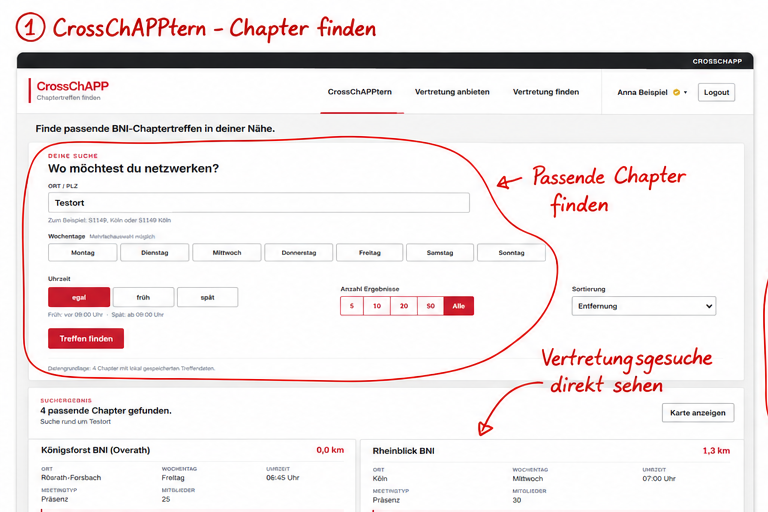
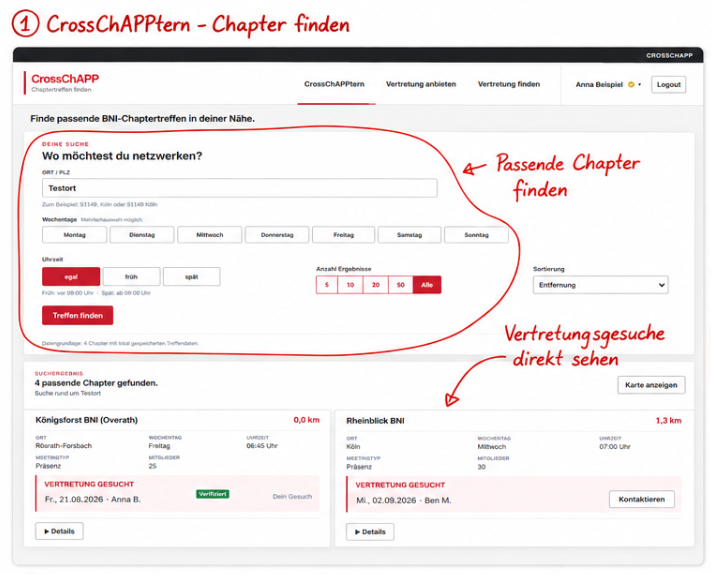
Vertretungsansichten und Chapterfilter verfeinern

diff --git a/app/assets/site.js b/app/assets/site.js
@@ -28,7 +28,6 @@
     document.querySelector('.result-limit-options')?.addEventListener('click', selectResultLimit);
     initializeRequestContact();
 
-    if (document.querySelector('#data-basis')) loadDataBasis();
     if (document.querySelector('#home-chapter-results')) loadHomeChapters();
     const invitationForm = document.querySelector('#invitation-activation-form');
     if (invitationForm) setupInvitationActivation(invitationForm);
@@ -319,18 +318,6 @@
         form.addEventListener('submit',async event=>{event.preventDefault();const validPassword=validatePassword(),validConfirmation=validateConfirmation();if(!validPassword||!validConfirmation){(validPassword?confirmation:password).focus();return;}const message=document.querySelector('#invitation-activation-message');try{const response=await fetch('/api/auth/invitation.php',{method:'POST',headers:{'Content-Type':'application/json','X-CSRF-Token':csrfToken},body:JSON.stringify({token:form.dataset.token,password:password.value,password_confirmation:confirmation.value})});const payload=await response.json();if(!response.ok)throw new Error(payload.error);form.remove();message.className='message success';message.replaceChildren(document.createTextNode('Dein Konto wurde aktiviert. '));const link=document.createElement('a');link.href='/?view=login';link.className='button-link';link.textContent='Anmelden';message.append(link);}catch(error){message.textContent=error.message;message.className='message error';}});
     }
 
-    async function loadDataBasis() {
-        const element = document.querySelector('#data-basis');
-        try {
-            const response = await fetch('/api/search-basis.php');
-            const payload = await response.json();
-            if (!response.ok) throw new Error();
-            element.textContent = `Datengrundlage: ${payload.data_basis} Chapter mit lokal gespeicherten Treffendaten.`;
-        } catch {
-            element.textContent = 'Die lokale Datengrundlage konnte nicht ermittelt werden.';
-        }
-    }
-
     async function searchChapters(event) {
         event.preventDefault();
         const form = event.currentTarget;
@@ -342,6 +329,7 @@
             time: form.querySelector('input[name="time"]:checked').value,
             sort: form.sort.value,
             limit: form.limit.value,
+            hasRepresentationRequests: form.elements.has_representation_requests.checked,
         };
         message.textContent = 'Ort wird gesucht und Entfernung berechnet …'; message.className = 'message'; button.disabled = true;
         try {
@@ -352,7 +340,6 @@
             if (!response.ok) throw new Error(result.error || 'Die Suche konnte nicht ausgeführt werden.');
             renderResults(result);
             queueSearchRefreshes(result);
-            document.querySelector('#data-basis').textContent = `Datengrundlage: ${result.data_basis} Chapter mit lokal gespeicherten Treffendaten.`;
             message.textContent = '';
         } catch (error) {
             document.querySelector('#search-results').hidden = true;
@@ -421,7 +408,7 @@
         const anonymousNumbers = new Map();
         requests.forEach(item => { const row = document.createElement('div'); row.className = 'result-representation-request'; const text = document.createElement('span');
             const currentNumber = (anonymousNumbers.get(item.requestDate) || 0) + 1; anonymousNumbers.set(item.requestDate, currentNumber);
-            const person = authenticated ? item.displayName : `Person ${currentNumber}`; text.textContent = `${formatDateOnly(item.requestDate)} · ${person}`; row.append(text);if(item.isVerified){const verified=document.createElement('span');verified.className='verified-badge';verified.textContent='Verifiziert';row.append(verified);}
+            const person = authenticated ? item.displayName : `Gesuch ${currentNumber}`; text.textContent = `${formatDateOnly(item.requestDate)} · ${person}`; row.append(text);if(item.isVerified){const verified=document.createElement('span');verified.className='verified-badge';verified.textContent='Verifiziert';row.append(verified);}
             if (item.canContact && item.requestId) { const button = document.createElement('button'); button.type = 'button'; button.className = 'secondary request-contact-button'; button.textContent = 'Kontaktieren'; button.dataset.requestId = item.requestId; row.append(button); }
             else if (item.isOwn) { const own = document.createElement('span'); own.className = 'offer-meta'; own.textContent = 'Dein Gesuch'; row.append(own); }
             section.append(row);

diff --git a/app/assets/app.css b/app/assets/app.css
@@ -135,6 +135,7 @@ nav a.active::after { position: absolute; right: 1.15rem; bottom: 0; left: 1.15r
 .radius-input input { min-width: 0; }
 .representation-actions { display: flex; flex-wrap: wrap; align-items: center; gap: .65rem; margin-top: 1rem; padding-top: 1rem; border-top: 1px solid var(--border); }
 .representation-actions strong { margin-left: auto; color: var(--muted); font-size: .78rem; }
+.representation-list-actions { margin: 0; padding: .75rem 1.5rem; border-top: 0; border-bottom: 1px solid var(--border); }
 .representation-login-hint { padding: .8rem 1rem; border-left: 4px solid var(--bni-red); background: #fff3f4; font-weight: 700; }
 .representation-save-panel, .representation-own-panel { margin-top: 1.5rem; }
 .representation-save-panel h2, .representation-own-panel h2 { margin-top: 0; }
@@ -310,7 +311,8 @@ tr.organization:hover { background: #faf7f7; }
 .result-limit-options button:hover, .batch-size-options button:hover { position: relative; z-index: 1; color: white; border-color: var(--bni-red-dark); background: var(--bni-red-dark); }
 .result-limit-options button[aria-pressed="true"], .batch-size-options button[aria-pressed="true"] { position: relative; z-index: 2; color: white; border-color: var(--bni-red); background: var(--bni-red); }
 .search-submit { min-height: 52px; justify-self: start; padding-inline: 2.1rem; font-size: .95rem; }
-.data-basis { margin: 1.3rem 0 0; padding-top: 1rem; border-top: 1px solid #eee; color: var(--muted); font-size: .74rem; }
+.representation-request-filter { display: inline-flex; align-items: center; justify-self: start; gap: .6rem; cursor: pointer; font-weight: 700; }
+.representation-request-filter input { width: 18px; height: 18px; margin: 0; accent-color: var(--accent); flex: 0 0 auto; }
 .search-panel .message { margin-top: .65rem; }
 .search-results { margin-top: 1.2rem; }
 .results-summary { display: flex; align-items: center; justify-content: space-between; gap: 1rem; padding: 1.35rem 1.5rem; border-left: 5px solid var(--bni-red); background: white; box-shadow: 0 6px 22px rgb(28 29 31 / 5%); }
@@ -523,5 +525,6 @@ button.danger:hover { border-color: #8f101d; background: #8f101d; }
     .cross-date-picker-calendar { position: fixed; top: 50%; left: 50%; width: min(360px, calc(100vw - 2rem)); transform: translate(-50%, -50%); }
     .representation-actions > button { width: 100%; }
     .representation-actions strong { width: 100%; margin-left: 0; }
+    .representation-list-actions { padding: .75rem 1rem; }
     .representation-offer-grid { grid-template-columns: 1fr; }
 }

diff --git a/app/assets/representation-find.js b/app/assets/representation-find.js
@@ -3,6 +3,7 @@
     const dated = document.querySelector('#dated-representations');
     if (!dated) return;
     const always = document.querySelector('#all-date-representations');
+    const alwaysSection = document.querySelector('#all-dates-representations-section');
     const requestChips = document.querySelector('#representation-request-chips');
     const requestMessage = document.querySelector('#representation-request-message');
     const requestDayHint = document.querySelector('#representation-request-day-hint');
@@ -44,7 +45,8 @@
             payload = null;
             requestChips.replaceChildren(paragraph('Die Vertretungsgesuche konnten nicht geladen werden.'));
             dated.replaceChildren(paragraph(cause instanceof Error ? cause.message : 'Die Vertretungsangebote konnten nicht geladen werden.'));
-            always.replaceChildren(paragraph('Die pauschalen Vertretungsangebote konnten nicht geladen werden.'));
+            always.replaceChildren();
+            alwaysSection.hidden = true;
             overview.replaceChildren(paragraph('Die Vertretungsangebote konnten nicht geladen werden.'));
         }
     }
@@ -57,7 +59,8 @@
         const groups = data.datedOffers || [];
         dated.replaceChildren(...(groups.length ? groups.map(dateGroup) : [paragraph('Aktuell sind keine Vertretungstermine oder konkreten Angebote hinterlegt.')]));
         const providers = data.allDatesOffers || [];
-        always.replaceChildren(...(providers.length ? providers.map(provider => providerCard(provider, null)) : [paragraph('Aktuell bietet sich niemand pauschal für alle Chaptertermine an.')]));
+        always.replaceChildren(...providers.map(provider => providerCard(provider, null)));
+        alwaysSection.hidden = providers.length === 0;
         const offers = data.offers || [];
         overview.replaceChildren(...(offers.length ? offers.map(overviewCard) : [paragraph('Aktuell sind keine Vertretungsangebote für dein Chapter hinterlegt.')]));
     }

diff --git a/tests/smoke-browser.py b/tests/smoke-browser.py
@@ -12,8 +12,8 @@ def js(source):return wd('POST',f'/session/{session}/execute/sync',{'script':sou
 def go(path):wd('POST',f'/session/{session}/url',{'url':APP+path});time.sleep(.6)
 def login(email,password='check-password-123'):
     go('/?view=login');js(f"const f=document.querySelector('#login-form');f.login.value={json.dumps(email)};f.password.value={json.dumps(password)};f.requestSubmit();");time.sleep(.8)
-def search(location='Testort'):
-    js(f"const f=document.querySelector('#chapter-search-form');f.location.value={json.dumps(location)};f.querySelector('[data-limit=\"all\"]').click();f.requestSubmit();")
+def search(location='Testort', requests_only=False):
+    js(f"const f=document.querySelector('#chapter-search-form');f.location.value={json.dumps(location)};f.elements.has_representation_requests.checked={str(requests_only).lower()};f.querySelector('[data-limit=\"all\"]').click();f.requestSubmit();")
     for _ in range(40):
         time.sleep(.25)
         if js("return !document.querySelector('#search-button').disabled"):return
@@ -23,6 +23,7 @@ try:
     guide=js("const nav=[...document.querySelectorAll('nav a')],steps=[...document.querySelectorAll('.guide-step')],images=[...document.querySelectorAll('.guide-image-button img')],rects=steps.map(step=>({copy:step.querySelector('.guide-step-copy').getBoundingClientRect(),image:step.querySelector('.guide-image-button').getBoundingClientRect()}));return {nav:nav.map(x=>x.textContent.trim()),active:nav.filter(x=>x.classList.contains('active')).map(x=>x.textContent.trim()),title:document.querySelector('.page-intro-title').textContent.trim(),headings:steps.map(x=>x.querySelector('h2').textContent.trim()),text:document.querySelector('.guide-page').innerText,loaded:images.map(x=>({complete:x.complete,naturalWidth:x.naturalWidth,naturalHeight:x.naturalHeight,displayWidth:x.getBoundingClientRect().width,displayHeight:x.getBoundingClientRect().height})),alternating:rects.map(x=>x.copy.left<x.image.left),cta:[...document.querySelectorAll('.guide-cta-actions a')].map(x=>x.textContent.trim()),overflow:document.documentElement.scrollWidth>document.documentElement.clientWidth}")
     assert guide['nav'][:2]==['Was ist CrossChAPP?','CrossChAPPtern'] and guide['active']==['Was ist CrossChAPP?'] and guide['title']=='Was ist CrossChAPP?',guide
     assert guide['headings']==['1. Passende Chapter finden','2. Vertretung anbieten','3. Vertretung für dein Chapter finden','4. Verifiziertes Benutzerkonto'],guide['headings']
+    assert 'Gib an, für welche Termine Du eine Vertretung suchst.' in guide['text'] and 'Lege für dein Heimatchapter ein Vertretungsgesuch an.' not in guide['text'],guide['text']
     widths=[x['displayWidth'] for x in guide['loaded']]
     assert all(x['complete'] and x['naturalWidth']>0 and x['naturalHeight']>0 and abs((x['displayWidth']/x['displayHeight'])-(x['naturalWidth']/x['naturalHeight']))<.02 for x in guide['loaded']) and max(widths)-min(widths)<=2 and guide['alternating']==[True,False,True,False] and guide['cta']==['CrossChAPPtern öffnen','Anmelden'] and 'Geschäftsreise' in guide['text'] and 'Urlaub' in guide['text'] and not guide['overflow'],guide
     image_status=js("return Promise.all([...document.querySelectorAll('.guide-image-button img')].map(x=>fetch(x.src).then(r=>r.status)))");assert image_status==[200,200,200,200],image_status
@@ -42,8 +43,18 @@ try:
     wd('POST',f'/session/{session}/window/rect',{'width':1440,'height':1000});time.sleep(.3)
     go('/?view=crosschaptern')
     assert js("return document.querySelector('.page-intro-title').textContent.trim()")=='Finde passende BNI-Chaptertreffen in deiner Nähe.'
+    search_filter=js("const f=document.querySelector('#chapter-search-form'),c=f.elements.has_representation_requests,b=document.querySelector('#search-button');return {unchecked:!c.checked,before:!!(c.compareDocumentPosition(b)&Node.DOCUMENT_POSITION_FOLLOWING),label:c.closest('label').textContent.trim(),basis:document.body.innerText.includes('Datengrundlage:')}")
+    assert search_filter=={'unchecked':True,'before':True,'label':'Nur Chapter mit Vertretungsgesuchen anzeigen','basis':False},search_filter
     search();anonymous=js("const c=document.querySelector('#result-910001');return {text:c?.textContent||'',buttons:c?.querySelectorAll('.request-contact-button').length||0,type:[...document.querySelectorAll('th,dt,label,legend')].some(x=>x.textContent.trim()==='Typ'),org:/orgId/i.test(document.body.innerText),error:document.querySelector('#search-message').textContent,ids:[...document.querySelectorAll('.result-card')].map(x=>x.id)}")
-    assert 'Person 1' in anonymous['text'] and anonymous['buttons']==1 and not anonymous['type'] and not anonymous['org'],anonymous
+    assert 'Gesuch 1' in anonymous['text'] and 'Person 1' not in anonymous['text'] and anonymous['buttons']==1 and not anonymous['type'] and not anonymous['org'],anonymous
+    assert 'result-910003' in anonymous['ids'],anonymous
+    search(requests_only=True);request_filtered=js("return {checked:document.querySelector('[name=has_representation_requests]').checked,ids:[...document.querySelectorAll('.result-card')].map(x=>x.id)}")
+    assert request_filtered=={'checked':True,'ids':['result-910001','result-910002']},request_filtered
+    invalid_request_filter=js("return fetch('/api/search.php',{method:'POST',headers:{'Content-Type':'application/json'},body:JSON.stringify({location:'Testort',days:[],time:'any',sort:'distance',limit:'all',hasRepresentationRequests:'yes'})}).then(async r=>({status:r.status,body:await r.json()}))")
+    assert invalid_request_filter['status']==400 and 'ungültig' in invalid_request_filter['body']['error'],invalid_request_filter
+    invalid_filter_logs=wd('POST',f'/session/{session}/log',{'type':'browser'})
+    assert invalid_filter_logs and all('/api/search.php' in entry.get('message','') and '400' in entry.get('message','') for entry in invalid_filter_logs if entry.get('level')=='SEVERE'),invalid_filter_logs
+    search()
     public_privacy=js("return fetch('/api/search.php',{method:'POST',headers:{'Content-Type':'application/json'},body:JSON.stringify({location:'Testort',days:[],time:'any',sort:'distance',limit:'all'})}).then(r=>r.json()).then(data=>{const raw=JSON.stringify(data.results.find(x=>x.orgId===910001).representationRequests);return {userId:raw.includes('user_id'),email:raw.includes('@'),displayName:raw.includes('displayName')}})")
     assert not any(public_privacy.values()),public_privacy
     js("document.querySelector('#result-910001 .request-contact-button').click()");time.sleep(.4)
@@ -103,6 +114,14 @@ try:
     js("document.querySelector('#request-contact-form').requestSubmit()");time.sleep(.7);assert 'Deine Rückmeldung wurde gesendet.' in js("return document.querySelector('#request-contact-content').textContent")
 
     go('/?view=vertretung');today=datetime.date.today();delta=(2-today.weekday())%7;wrong_date=today+datetime.timedelta(days=delta or 7);wrong_display=wrong_date.strftime('%d.%m.%Y')
+    representation_copy=js("return {database:document.body.innerText.includes('Lokale Datenbank'),heading:document.querySelector('#representation-list-heading').textContent.trim()}")
+    assert not representation_copy['database'] and representation_copy['heading']=='Chapterliste' and js("return document.querySelector('#select-visible-representations').textContent.trim()")=='Alle auswählen' and 'Alle sichtbaren auswählen' not in js("return document.querySelector('.representation-list-panel').innerText"),representation_copy
+    representation_api=js("return fetch('/api/representation/organizations.php').then(r=>r.json()).then(p=>({count:p.count,types:[...new Set(p.organizations.map(x=>x.orgType))],ids:p.organizations.map(x=>x.orgId)}))")
+    assert representation_api=={'count':3,'types':['CHAPTER'],'ids':[910001,910002,910003]},representation_api
+    offer_actions=js("const panel=document.querySelector('.representation-list-panel'),heading=panel.querySelector('.list-heading'),actions=panel.querySelector('.representation-list-actions'),table=panel.querySelector('.table-scroll');return {order:!!((heading.compareDocumentPosition(actions)&Node.DOCUMENT_POSITION_FOLLOWING)&&(actions.compareDocumentPosition(table)&Node.DOCUMENT_POSITION_FOLLOWING)),filterButtons:document.querySelector('.representation-filters .representation-actions')===null,overflow:document.documentElement.scrollWidth>document.documentElement.clientWidth}")
+    assert offer_actions=={'order':True,'filterButtons':True,'overflow':False},offer_actions
+    selection_actions=js("const current=()=>[...document.querySelectorAll('#representation-list input[data-org-id]:not(:disabled)')],visible=current().length;document.querySelector('#select-visible-representations').click();const selected=current().filter(x=>x.checked).length;document.querySelector('#clear-representations').click();return {visible,selected,cleared:current().every(x=>!x.checked)}")
+    assert selection_actions['visible']>0 and selection_actions['selected']==selection_actions['visible'] and selection_actions['cleared'],selection_actions
     wd('POST',f'/session/{session}/log',{'type':'performance'})
     invalid_client=js(f"const row=document.querySelector('input[data-org-id=\"910001\"]');row.click();const input=document.querySelector('#representation-date');input.value={json.dumps(wrong_display)};input.dispatchEvent(new Event('input',{{bubbles:true}}));return {{chips:document.querySelectorAll('#representation-date-chips .date-chip').length,message:document.querySelector('#representation-date-message').textContent,selected:row.checked}}")
     invalid_network=wd('POST',f'/session/{session}/log',{'type':'performance'});assert invalid_client['chips']==0 and invalid_client['selected'] and 'passt nicht zum Meetingtag' in invalid_client['message'] and not [x for x in invalid_network if '/api/representation/offers.php' in x.get('message','') and 'Network.requestWillBeSent' in x.get('message','')],invalid_client
@@ -111,7 +130,8 @@ try:
     invalid_server_logs=wd('POST',f'/session/{session}/log',{'type':'browser'});assert not [entry for entry in invalid_server_logs if entry.get('level')=='SEVERE' and '/api/representation/offers.php' not in entry.get('message','')],invalid_server_logs
     offer=js("document.querySelector('#representation-all-dates').click();document.querySelector('#save-representation-offer').click();return {ownDisabled:document.querySelector('input[data-org-id=\"910002\"]').disabled,typeHeader:[...document.querySelectorAll('#representation-table th')].some(x=>x.textContent.trim()==='Typ')}");time.sleep(.7)
     assert offer['ownDisabled'] and not offer['typeHeader'] and 'Vertretungsangebot' in js("return document.querySelector('#representation-save-message').textContent")
-    go('/?view=vertretung-finden');home=js("return document.querySelector('#representation-home-chapter').textContent");assert 'Testchapter Rhein' in home
+    go('/?view=vertretung-finden');find_copy=js("return {title:document.querySelector('.page-intro-title').textContent.trim(),heading:document.querySelector('#representation-requests-heading').textContent.trim(),hint:document.querySelector('.representation-requests>p').textContent.trim(),old:document.querySelector('.representation-requests').innerText.includes('Termine auswählen'),home:document.querySelector('#representation-home-chapter').textContent}");assert find_copy['title']=='Finde eine Vertretung' and find_copy['heading']=='Meine Vertretungsgesuche' and find_copy['hint']=='Wähle Termine aus, für die Du eine Vertretung suchst' and not find_copy['old'] and 'Testchapter Rhein' in find_copy['home'],find_copy
+    assert js("const s=document.querySelector('#all-dates-representations-section');return s.hidden&&!s.getClientRects().length&&!document.body.innerText.includes('Aktuell bietet sich niemand pauschal für alle Chaptertermine an.')")
     assert js("return document.querySelectorAll('#dated-representations .representation-provider-card').length")>=1
     today=datetime.date.today();delta=(2-today.weekday())%7;request_date=today+datetime.timedelta(days=delta or 7);display=request_date.strftime('%d.%m.%Y')
     js(f"const i=document.querySelector('#representation-request-date');i.value={json.dumps(display)};i.dispatchEvent(new Event('input',{{bubbles:true}}));");time.sleep(.7)

diff --git a/tests/representation-offers-browser.py b/tests/representation-offers-browser.py
@@ -51,7 +51,8 @@ try:
     request('POST',f'/session/{session}/url',{'url':'http://localhost:8082/?view=vertretung-finden'});time.sleep(.7)
     found=script("const dated=document.querySelector('#dated-representations');return {dates:dated.querySelectorAll('.representation-date-group').length,cards:dated.querySelectorAll('.representation-provider-card').length,text:dated.textContent,email:document.body.textContent.includes('representation-b@example.invalid'),orgId:/orgId/i.test(document.body.textContent)};")
     assert found['dates']==2 and found['cards']==2 and 'Bernd B.' in found['text'] and not found['email'] and not found['orgId'],found
-    assert script("return document.querySelectorAll('#all-date-representations .representation-provider-card').length;")==1
+    all_dates=script("const s=document.querySelector('#all-dates-representations-section');return {hidden:s.hidden,visible:s.getClientRects().length>0,cards:s.querySelectorAll('.representation-provider-card').length,heading:s.querySelector('h2').textContent,text:s.textContent};")
+    assert all_dates['hidden'] is False and all_dates['visible'] and all_dates['cards']==1 and all_dates['heading']=='Für alle Chaptertermine verfügbar' and 'Bernd B.' in all_dates['text'],all_dates
     overview=script("return {cards:document.querySelectorAll('#representation-offers-overview .representation-offer-card').length,buttons:[...document.querySelectorAll('#representation-offers-overview .representation-offer-card')].map(x=>x.querySelectorAll('.contact-provider').length),dateType:document.querySelector('#representation-request-date').type,dayHint:document.querySelector('#representation-request-day-hint').textContent};")
     assert overview['cards']==2 and overview['buttons']==[1,1] and overview['dateType']=='text' and 'freitags' in overview['dayHint'],overview
     multiple=script("document.querySelector('#representation-offers-overview .representation-offer-card .contact-provider').click();return {open:document.querySelector('#representation-contact-dialog').open,options:document.querySelectorAll('#representation-contact-date-options input').length,hidden:document.querySelector('#representation-contact-date-options').hidden};")
@@ -78,7 +79,7 @@ try:
     script(f"const i=document.querySelector('#representation-request-date'),p='{request_dates[1]}'.split('-');i.value=p[2]+'.'+p[1]+'.'+p[0];i.dispatchEvent(new Event('input',{{bubbles:true}}));");time.sleep(.5);script("document.querySelector('#logout-button').click()");time.sleep(.4);request('POST',f'/session/{session}/url',{'url':'http://localhost:8082/?view=crosschaptern'});time.sleep(.4)
     location=json.dumps(SEARCH_LOCATION);script(f"const f=document.querySelector('#chapter-search-form');document.querySelector('#search-location').value={location};f.querySelector('[data-limit=\"all\"]').click();f.requestSubmit();");time.sleep(1.5)
     anonymous=script(f"const c=document.querySelector('#result-{CHAPTER_IDS[0]}');return c?{{text:c.querySelector('.result-representation-requests')?.textContent||'',buttons:c.querySelectorAll('.request-contact-button').length}}:null;")
-    assert anonymous and 'Person 1' in anonymous['text'] and 'Person 2' in anonymous['text'] and 'Anna' not in anonymous['text'] and 'Dora' not in anonymous['text'] and anonymous['buttons']==2 and '@' not in anonymous['text'],anonymous
+    assert anonymous and 'Gesuch 1' in anonymous['text'] and 'Gesuch 2' in anonymous['text'] and 'Person 1' not in anonymous['text'] and 'Person 2' not in anonymous['text'] and 'Anna' not in anonymous['text'] and 'Dora' not in anonymous['text'] and anonymous['buttons']==2 and '@' not in anonymous['text'],anonymous
     script(f"document.querySelector('#result-{CHAPTER_IDS[0]} .request-contact-button').click();");time.sleep(.4)
     anonymous_dialog=script("const fields=document.querySelector('#anonymous-request-contact-fields');return {open:document.querySelector('#request-contact-dialog').open,login:location.search.includes('view=login'),fields:!fields.hidden,visibleFields:[...fields.querySelectorAll('input')].filter(input=>getComputedStyle(input).display!=='none'&&input.getClientRects().length>0).length,display:getComputedStyle(fields).display,message:document.querySelector('#request-contact-message').value};")
     assert anonymous_dialog['open'] and not anonymous_dialog['login'] and anonymous_dialog['fields'] and anonymous_dialog['visibleFields']==3 and anonymous_dialog['display']=='grid' and len(anonymous_dialog['message'])>=20,anonymous_dialog

diff --git a/app/views/vertretung-finden.php b/app/views/vertretung-finden.php
@@ -1,19 +1,19 @@
 <?php if ($currentUser === null): ?>
-<main class="shell content no-hero-content"><h1 class="page-intro-title">Vertretung für Dein Chapter finden</h1><section class="panel representation-access-hint"><p>Um Vertretungsangebote für dein Heimatchapter zu sehen, musst du angemeldet sein.</p><a class="button-link" href="/?view=login&amp;return_view=vertretung-finden">Anmelden</a></section></main>
+<main class="shell content no-hero-content"><h1 class="page-intro-title">Finde eine Vertretung</h1><section class="panel representation-access-hint"><p>Um Vertretungsangebote für dein Heimatchapter zu sehen, musst du angemeldet sein.</p><a class="button-link" href="/?view=login&amp;return_view=vertretung-finden">Anmelden</a></section></main>
 <?php elseif (!$hasRepresentationHomeChapter): ?>
-<main class="shell content no-hero-content"><h1 class="page-intro-title">Vertretung für Dein Chapter finden</h1><section class="panel representation-access-hint"><p>Für dein Benutzerkonto ist noch kein Heimatchapter hinterlegt.</p><p>Ein Heimatchapter ist erforderlich, um passende Vertretungsangebote anzuzeigen.</p></section></main>
+<main class="shell content no-hero-content"><h1 class="page-intro-title">Finde eine Vertretung</h1><section class="panel representation-access-hint"><p>Für dein Benutzerkonto ist noch kein Heimatchapter hinterlegt.</p><p>Ein Heimatchapter ist erforderlich, um passende Vertretungsangebote anzuzeigen.</p></section></main>
 <?php else: ?>
-<main class="shell content no-hero-content"><h1 class="page-intro-title">Vertretung für Dein Chapter finden</h1>
+<main class="shell content no-hero-content"><h1 class="page-intro-title">Finde eine Vertretung</h1>
     <p id="representation-home-chapter" class="page-meta" hidden></p>
     <section class="panel representation-requests" aria-labelledby="representation-requests-heading">
         <h2 id="representation-requests-heading">Meine Vertretungsgesuche</h2>
-        <p>Termine auswählen</p>
+        <p>Wähle Termine aus, für die Du eine Vertretung suchst</p>
         <?php $datePickerPrefix = 'representation-request'; require __DIR__ . '/partials/date-picker.php'; ?>
         <p id="representation-request-day-hint" class="automation-hint"></p><div id="representation-request-message" class="message" role="status" aria-live="polite"></div>
         <div id="representation-request-chips" class="date-chips" aria-label="Meine Vertretungsgesuche"><p>Vertretungsgesuche werden geladen …</p></div>
     </section>
     <section class="panel"><h2>Termine mit Vertretungsangeboten</h2><div id="dated-representations"><p>Vertretungsangebote werden geladen …</p></div></section>
-    <section class="panel"><h2>Für alle Chaptertermine verfügbar</h2><p>Folgende Personen bieten sich für alle Chaptertermine als Vertretung an.</p><div id="all-date-representations" class="representation-offer-grid"></div></section>
+    <section id="all-dates-representations-section" class="panel" hidden><h2>Für alle Chaptertermine verfügbar</h2><p>Folgende Personen bieten sich für alle Chaptertermine als Vertretung an.</p><div id="all-date-representations" class="representation-offer-grid"></div></section>
     <section class="panel"><h2>Vertretungsangebote</h2><div id="representation-offers-overview" class="representation-offer-grid"><p>Vertretungsangebote werden geladen …</p></div></section>
 </main>
 <dialog id="representation-contact-dialog" class="account-dialog" role="dialog" aria-modal="true" aria-labelledby="representation-contact-heading"><div class="account-dialog-card">

diff --git a/tests/chapter-search.php b/tests/chapter-search.php
@@ -7,7 +7,8 @@ require_once $appRoot . '/src/Database.php';
 require_once $appRoot . '/src/OrganizationRepository.php';
 require_once $appRoot . '/src/ChapterSearchService.php';
 
-$repository = new OrganizationRepository((new Database(':memory:'))->connection());
+$database = (new Database(':memory:'))->connection();
+$repository = new OrganizationRepository($database);
 $check = static function (bool $condition, string $message): void {
     if (!$condition) {
         throw new RuntimeException($message);
@@ -29,7 +30,20 @@ $repository->saveDetails(1, $details(1, 'Montag', '08:59'));
 $repository->saveDetails(2, $details(2, 'Dienstag', '09:00'));
 $repository->saveDetails(3, $details(3, 'Montag', '07:00'));
 
+$today = new DateTimeImmutable('today', new DateTimeZone('Europe/Berlin'));
+$insertRequest = $database->prepare('INSERT INTO representation_requests (user_id, org_id, request_date, created_at, updated_at) VALUES (1, :org_id, :request_date, :created_at, :updated_at)');
+foreach ([[1, '-1 day'], [2, '+1 day'], [2, '+2 days'], [3, 'today']] as [$orgId, $dateModifier]) {
+    $insertRequest->execute([
+        ':org_id' => $orgId,
+        ':request_date' => $today->modify($dateModifier)->format('Y-m-d'),
+        ':created_at' => gmdate('Y-m-d\TH:i:s\Z'),
+        ':updated_at' => gmdate('Y-m-d\TH:i:s\Z'),
+    ]);
+}
+
 $service = new ChapterSearchService($repository);
+$representationOrganizations = $repository->representationOrganizations();
+$check(array_column($representationOrganizations, 'orgId') === [1, 2] && array_unique(array_column($representationOrganizations, 'orgType')) === ['CHAPTER'], 'Vertretung anbieten erhält serverseitig ausschließlich CHAPTER-Organisationen.');
 $all = $service->search(50.0, 7.0, [], 'any', 'distance', null);
 $check(array_column($all['results'], 'orgId') === [1, 3, 2], 'Alle Organisationstypen mit nutzbaren lokalen Treffendaten berücksichtigen.');
 $check(array_column($service->search(50.0, 7.0, ['Montag'], 'any', 'distance', null)['results'], 'orgId') === [1, 3], 'Montagfilter.');
@@ -38,6 +52,10 @@ $check(array_column($service->search(50.0, 7.0, [], 'early', 'distance', null)['
 $check(array_column($service->search(50.0, 7.0, [], 'late', 'distance', null)['results'], 'orgId') === [2], 'Spät ab 09:00.');
 $check(count($service->search(50.0, 7.0, [], 'any', 'distance', null)['results']) === 3, 'Egal ohne Zeitfilter.');
 $check($all['results'][0]['distanceKm'] <= $all['results'][1]['distanceKm'], 'Entfernungssortierung.');
+$withRequests = $service->search(50.0, 7.0, [], 'any', 'distance', null, true, $today->format('Y-m-d'));
+$check(array_column($withRequests['results'], 'orgId') === [3, 2], 'Nur Chapter mit heutigen oder zukünftigen Gesuchen; vergangene Gesuche sind ausgeschlossen.');
+$check(count(array_filter($withRequests['results'], static fn (array $chapter): bool => $chapter['orgId'] === 2)) === 1, 'Mehrere aktuelle Gesuche erzeugen keine doppelten Chaptertreffer.');
+$check(array_column($service->search(50.0, 7.0, ['Montag'], 'early', 'distance', null, true, $today->format('Y-m-d'))['results'], 'orgId') === [3], 'Gesuchsfilter kombiniert sich mit Tages- und Zeitfilter.');
 
 $more = [];
 for ($id = 4; $id <= 25; $id++) {

diff --git a/app/views/vertretung.php b/app/views/vertretung.php
@@ -17,11 +17,6 @@
             <button id="apply-representation-radius" type="button" class="secondary">Umkreis anwenden</button>
         </div>
         <div id="representation-location-message" class="message" role="status" aria-live="polite"></div>
-        <div class="representation-actions">
-            <button id="select-visible-representations" type="button" class="secondary">Alle sichtbaren auswählen</button>
-            <button id="clear-representations" type="button" class="secondary">Auswahl aufheben</button>
-            <strong id="representation-counts">0 sichtbar · 0 Chapter ausgewählt</strong>
-        </div>
     </section>
 
     <section class="panel representation-dates" aria-labelledby="representation-date-heading">
@@ -35,7 +30,12 @@
     </section>
 
     <section class="table-panel representation-list-panel" aria-labelledby="representation-list-heading">
-        <div class="list-heading"><div><p class="section-kicker">Lokale Datenbank</p><h2 id="representation-list-heading">Chapterliste</h2></div></div>
+        <div class="list-heading"><div><h2 id="representation-list-heading">Chapterliste</h2></div></div>
+        <div class="representation-actions representation-list-actions">
+            <button id="select-visible-representations" type="button" class="secondary">Alle auswählen</button>
+            <button id="clear-representations" type="button" class="secondary">Auswahl aufheben</button>
+            <strong id="representation-counts">0 sichtbar · 0 Chapter ausgewählt</strong>
+        </div>
         <div class="table-scroll"><table id="representation-table">
             <thead><tr><th class="select-column"><span class="sr-only">Auswahl</span></th><th data-sort-key="chapterName"><button type="button" class="sort-button">Chaptername <span class="sort-indicator" aria-hidden="true"></span></button></th><th data-sort-key="country"><button type="button" class="sort-button">Land <span class="sort-indicator" aria-hidden="true"></span></button></th><th data-sort-key="city"><button type="button" class="sort-button">Ort <span class="sort-indicator" aria-hidden="true"></span></button></th><th data-sort-key="meetingDay"><button type="button" class="sort-button">Wochentag <span class="sort-indicator" aria-hidden="true"></span></button></th><th data-sort-key="meetingTime"><button type="button" class="sort-button">Uhrzeit <span class="sort-indicator" aria-hidden="true"></span></button></th><th id="representation-distance-heading" data-sort-key="distance" hidden><button type="button" class="sort-button">Entfernung <span class="sort-indicator" aria-hidden="true"></span></button></th></tr></thead>
             <tbody id="representation-list"><tr><td colspan="7">Lokale Organisationen werden geladen …</td></tr></tbody>

diff --git a/app/src/OrganizationRepository.php b/app/src/OrganizationRepository.php
@@ -65,6 +65,8 @@ final class OrganizationRepository
     /** @return list<array<string, mixed>> */
     public function representationOrganizations(): array
     {
+        $statement = $this->database->prepare('SELECT * FROM organizations WHERE org_type = :org_type ORDER BY org_id');
+        $statement->execute([':org_type' => 'CHAPTER']);
         return array_map(static fn (array $organization): array => [
             'orgId' => $organization['orgId'],
             'countryCode' => $organization['countryCode'],
@@ -77,7 +79,7 @@ final class OrganizationRepository
             'postalCode' => $organization['postalCode'],
             'meetingDay' => $organization['meetingDay'],
             'meetingTime' => $organization['meetingTime'],
-        ], $this->all());
+        ], array_map([$this, 'toApi'], $statement->fetchAll()));
     }
 
     /** @return array{count: int, with_details: int} */
@@ -96,9 +98,20 @@ final class OrganizationRepository
     }
 
     /** @return list<array<string, mixed>> */
-    public function searchableChapters(): array
+    public function searchableChapters(bool $hasRepresentationRequests = false, ?string $today = null): array
     {
-        $statement = $this->database->prepare(<<<'SQL'
+        if ($hasRepresentationRequests && ($today === null || preg_match('/^\d{4}-\d{2}-\d{2}$/', $today) !== 1)) {
+            throw new InvalidArgumentException('Für den Gesuchsfilter ist ein gültiges Datum erforderlich.');
+        }
+        $requestFilter = $hasRepresentationRequests ? <<<'SQL'
+              AND EXISTS (
+                  SELECT 1
+                  FROM representation_requests rr
+                  WHERE rr.org_id = organizations.org_id
+                    AND rr.request_date >= :today
+              )
+            SQL : '';
+        $statement = $this->database->prepare(<<<SQL
             SELECT * FROM organizations
             WHERE detail_status = :detail_status
               AND chapter_name IS NOT NULL
@@ -106,11 +119,14 @@ final class OrganizationRepository
               AND longitude IS NOT NULL
               AND meeting_day IS NOT NULL
               AND meeting_time IS NOT NULL
+            {$requestFilter}
             ORDER BY org_id
             SQL);
-        $statement->execute([
-            ':detail_status' => 'loaded',
-        ]);
+        $parameters = [':detail_status' => 'loaded'];
+        if ($hasRepresentationRequests) {
+            $parameters[':today'] = $today;
+        }
+        $statement->execute($parameters);
 
         return array_map([$this, 'toApi'], $statement->fetchAll());
     }

diff --git a/app/api/search.php b/app/api/search.php
@@ -28,6 +28,7 @@ $days = is_array($payload) && is_array($payload['days'] ?? null) ? array_values(
 $timeFilter = is_array($payload) ? (string) ($payload['time'] ?? 'any') : 'any';
 $sort = is_array($payload) ? (string) ($payload['sort'] ?? 'distance') : 'distance';
 $limitInput = is_array($payload) ? (string) ($payload['limit'] ?? '10') : '10';
+$hasRepresentationRequests = is_array($payload) ? ($payload['hasRepresentationRequests'] ?? false) : false;
 $allowedDays = ['Montag', 'Dienstag', 'Mittwoch', 'Donnerstag', 'Freitag', 'Samstag', 'Sonntag'];
 $allowedLimits = ['5' => 5, '10' => 10, '20' => 20, '50' => 50, 'all' => null];
 
@@ -43,6 +44,9 @@ if (!in_array($timeFilter, ['any', 'early', 'late'], true) || !in_array($sort, [
 if (!array_key_exists($limitInput, $allowedLimits)) {
     JsonResponse::send(['error' => 'Die gewünschte Ergebnisanzahl ist ungültig.'], 400);
 }
+if (!is_bool($hasRepresentationRequests)) {
+    JsonResponse::send(['error' => 'Der Filter für Vertretungsgesuche ist ungültig.'], 400);
+}
 
 try {
     $location = (new Geocoder())->geocode($locationInput);
@@ -51,6 +55,7 @@ try {
     $repository = new OrganizationRepository($database);
     $automationSettings = (new AutomationRepository($database))->settings();
     $service = new ChapterSearchService($repository);
+    $today = (new DateTimeImmutable('today', new DateTimeZone('Europe/Berlin')))->format('Y-m-d');
     $search = $service->search(
         $location['latitude'],
         $location['longitude'],
@@ -58,9 +63,11 @@ try {
         $timeFilter,
         $sort,
         $allowedLimits[$limitInput],
+        $hasRepresentationRequests,
+        $today,
     );
     Auth::start(); $identity = Auth::user(); $viewerId = $identity !== null && ($identity['role'] ?? null) === 'user' ? (int) $identity['user_id'] : null;
-    $requestMap = (new RepresentationRequestRepository($database))->activeForOrganizations(array_column($search['results'], 'orgId'), $viewerId, (new DateTimeImmutable('today', new DateTimeZone('Europe/Berlin')))->format('Y-m-d'));
+    $requestMap = (new RepresentationRequestRepository($database))->activeForOrganizations(array_column($search['results'], 'orgId'), $viewerId, $today);
     foreach ($search['results'] as &$resultItem) $resultItem['representationRequests'] = $requestMap[(int) $resultItem['orgId']] ?? [];
     unset($resultItem);
     $searchLocation = [

diff --git a/tests/representation-dataflow-browser.py b/tests/representation-dataflow-browser.py
@@ -34,8 +34,8 @@ try:
     assert chapter_meta['text']==f'Heimatchapter: {home_name}',(chapter_meta,home_name)
     assert len(find_payload['requests'])==1 and find_payload['requests'][0]['requestDate']==chosen
     assert find_payload['datedOffers']==[] and find_payload['allDatesOffers']==[] and find_payload['offers']==[],find_payload
-    display=script("return {chips:document.querySelectorAll('#representation-request-chips .date-chip').length,dateGroups:document.querySelectorAll('#dated-representations .representation-date-group').length,providers:document.querySelectorAll('#dated-representations .representation-provider-card').length,overview:document.querySelectorAll('#representation-offers-overview .representation-offer-card').length,empty:document.querySelector('#dated-representations').textContent.includes('keine Vertretungstermine oder konkreten Angebote')};")
-    assert display=={'chips':1,'dateGroups':0,'providers':0,'overview':0,'empty':True},display
+    display=script("const always=document.querySelector('#all-dates-representations-section');return {chips:document.querySelectorAll('#representation-request-chips .date-chip').length,dateGroups:document.querySelectorAll('#dated-representations .representation-date-group').length,providers:document.querySelectorAll('#dated-representations .representation-provider-card').length,overview:document.querySelectorAll('#representation-offers-overview .representation-offer-card').length,empty:document.querySelector('#dated-representations').textContent.includes('keine Vertretungstermine oder konkreten Angebote'),alwaysHidden:always.hidden,alwaysVisible:always.getClientRects().length>0,alwaysText:always.textContent.includes('Aktuell bietet sich niemand pauschal')};")
+    assert display=={'chips':1,'dateGroups':0,'providers':0,'overview':0,'empty':True,'alwaysHidden':True,'alwaysVisible':False,'alwaysText':False},display
 
     request('POST',f'/session/{session}/url',{'url':'http://localhost:8082/?view=vertretung'});time.sleep(.8);network()
     assert script("const ids=[...document.querySelectorAll('[id]')].map(x=>x.id);return new Set(ids).size===ids.length;")

diff --git a/app/views/about.php b/app/views/about.php
@@ -15,7 +15,7 @@
             <button class="guide-image-button" type="button" data-guide-image="/assets/images/guide/vertretung-anbieten.png" data-guide-alt="Vertretungsangebot für ein BNI-Chapter erstellen" aria-label="Screenshot zum Vertretungsangebot vergrößern"><img src="/assets/images/guide/vertretung-anbieten.png" alt="Vertretungsangebot für ein BNI-Chapter erstellen"></button>
         </section>
         <section class="guide-step">
-            <div class="guide-step-copy"><h2>3. Vertretung für dein Chapter finden</h2><p>Lege für dein Heimatchapter ein Vertretungsgesuch an. CrossChAPP zeigt dir passende Vertretungsangebote und ermöglicht die direkte Kontaktaufnahme.</p></div>
+            <div class="guide-step-copy"><h2>3. Vertretung für dein Chapter finden</h2><p>Gib an, für welche Termine Du eine Vertretung suchst. CrossChAPP zeigt dir passende Vertretungsangebote und ermöglicht die direkte Kontaktaufnahme.</p></div>
             <button class="guide-image-button" type="button" data-guide-image="/assets/images/guide/vertretung-finden.png" data-guide-alt="Vertretung für das eigene BNI-Chapter finden" aria-label="Screenshot zur Vertretungssuche vergrößern"><img src="/assets/images/guide/vertretung-finden.png" alt="Vertretung für das eigene BNI-Chapter finden"></button>
         </section>
         <section class="guide-step">
